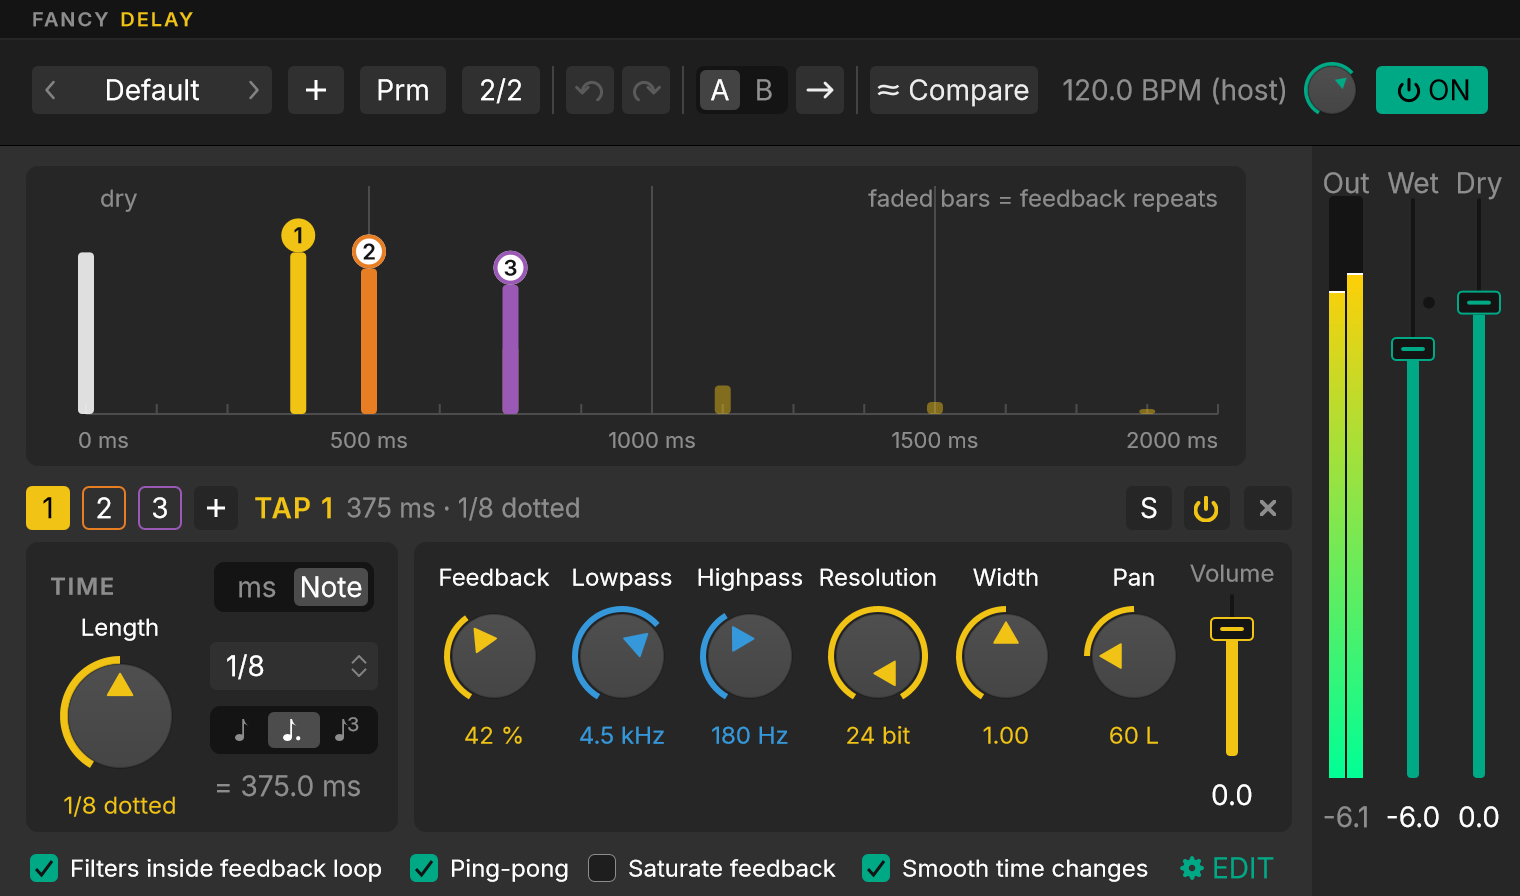
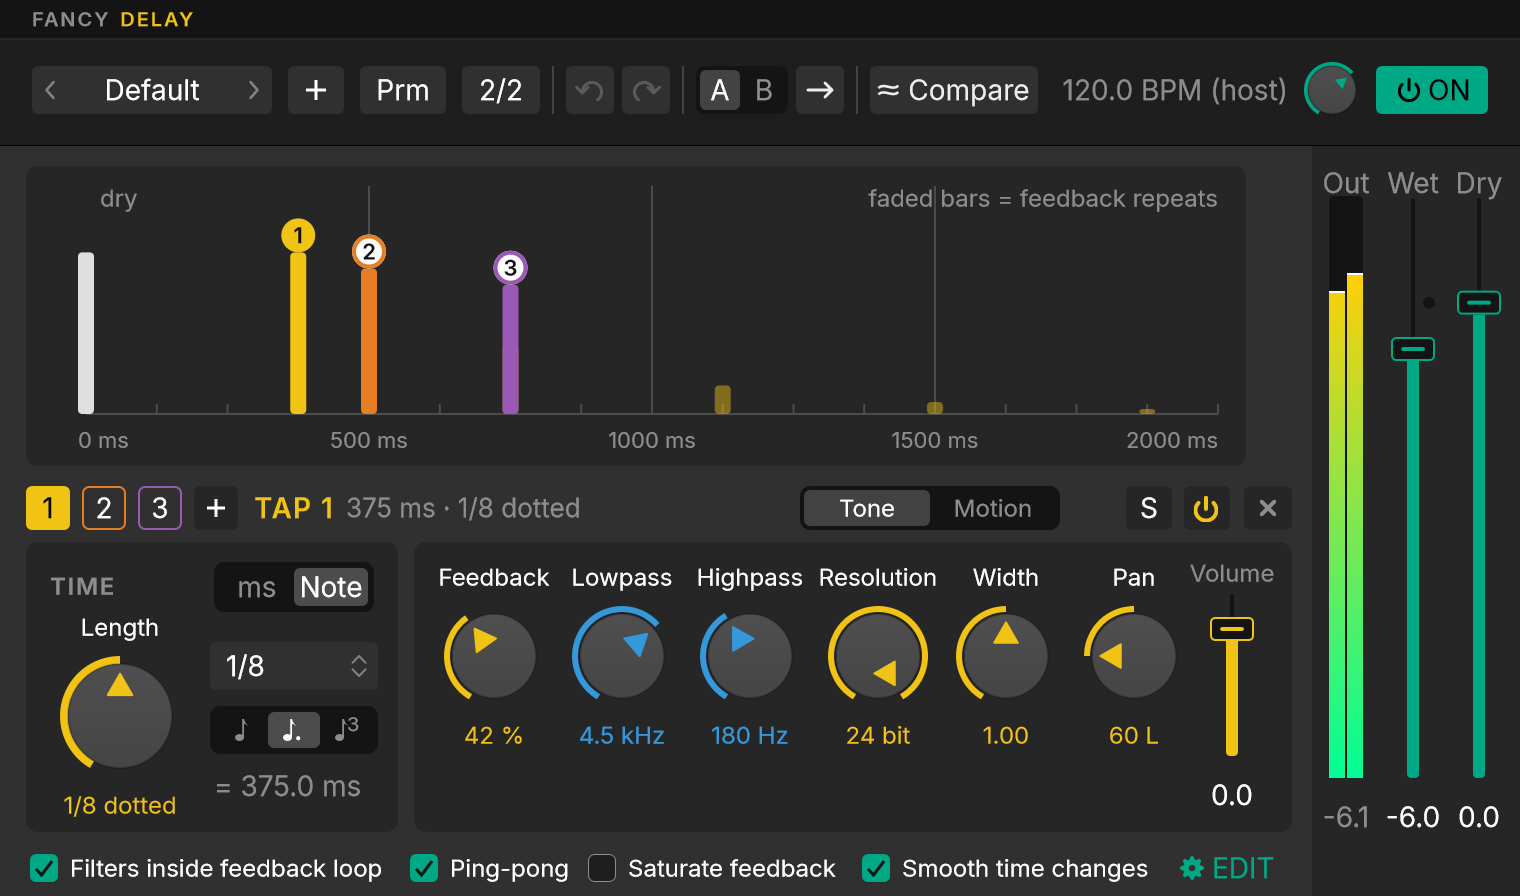
Release 1.5.0: version, README notes and screenshots

Changed region(s): [[0.5257, 0.5312, 0.7112, 0.5938]]

diff --git a/README.md b/README.md
@@ -1,6 +1,6 @@
 # Fancy Plugs
 
-Fourteen VST3 effects for Windows 10 and 11 (x64), built for personal use and signed off by ear in REAPER. Version **1.4.0**.
+Fourteen VST3 effects for Windows 10 and 11 (x64), built for personal use and signed off by ear in REAPER. Version **1.5.0**.
 
 | Plugin | What it does |
 |---|---|
@@ -8,9 +8,9 @@ Fourteen VST3 effects for Windows 10 and 11 (x64), built for personal use and si
 | Fancy Exciter | Parallel high-frequency exciter with clip boost and a mix-back control |
 | Fancy Comp | Compressor with a Threshold fader over the input meter, a filtered detector, a sidechain and an output limiter; new in 1.4.0, Character, upward compression, Auto threshold and a detector EQ |
 | Fancy EQ | Up to 24 bands with draggable handles, a live analyzer, dynamic bands and, new in 1.4.0, mid/side per band and Match |
-| Fancy Verb | Convolution reverb built from a chain of modules: impulse file, filters, echo generator, normalize |
-| Fancy Delay | Up to 16 delay taps, each with its own feedback, loop filters, bit crush, width, pan and ping-pong |
-| Fancy MultiComp | Up to 8 bands of compression behind flat-summing crossovers and, new in 1.2.0, upward compression |
+| Fancy Verb | Convolution reverb built from a chain of modules: impulse file, filters, echo generator, normalize; new in 1.5.0, a built-in IR library, true stereo and Modulate |
+| Fancy Delay | Up to 16 delay taps, each with its own feedback, loop filters, bit crush, width, pan and ping-pong; new in 1.5.0, Tape and BBD character, modulation, diffusion, ducking and swing |
+| Fancy MultiComp | Up to 8 bands of compression behind flat-summing crossovers, with upward compression and, new in 1.5.0, lookahead and mid/side per band |
 | Fancy FIR | Spectral processor: drawable EQ, Gate, Compressor, noise Subtract and Convolve, with adaptive noise tracking in 1.2.0 |
 | Fancy Gate | Gate with a filtered detector, a sidechain and a MIDI trigger output |
 | Fancy Limit | New in 1.3.0: true-peak brickwall limiter with lookahead, three styles, Auto release, a loudness meter and dither |
@@ -19,7 +19,19 @@ Fourteen VST3 effects for Windows 10 and 11 (x64), built for personal use and si
 | Fancy Sature | New in 1.3.0: saturator with Tape, Tube, Transistor and Clip curves, even/odd Character, Tone, oversampling and auto gain |
 | Fancy Room | New in 1.3.0: algorithmic reverb from small room to long hall, with Freeze, tempo-synced pre-delay, a send mode and ducking |
 
-## What's new in 1.4.0
+## What's new in 1.5.0
+
+- **Fancy Verb: IR library.** 32 impulse responses built in, in Rooms, Halls, Plates, Chambers and Special, from a LIBRARY section in the File module's dropdown. A project that uses one stays small, because it stores the name, not the audio.
+- **Fancy Verb: true stereo.** Library IRs marked TS, four-channel WAVs and a pair of stereo files (**Pair right input…**) keep each input side's own reflections, so a source panned left still fills the room. The Reverb generator gains Low and High RT, Early reflections (Room or Hall, with Size; Plate is dense from the start), Build-up and a True stereo switch.
+- **Fancy Verb: Modulate.** A new module that moves a long tail gently, without pitch wobble, with Rate and Depth. Offline renders stay identical.
+- **Fancy Verb: Add module** is now a card in the chain with every module type.
+- **Fancy MultiComp: lookahead** from 0 to 10 ms, reported to the host, and **a channel per band:** Stereo, Left, Right, Mid or Side, from a chip on the band row.
+- **Fancy Delay: character and motion.** Each tap can be Clean, Tape or BBD, with Amount, and the Motion page adds Rate, Depth, Random and Diffusion. The EDIT drawer adds Ducking and Swing.
+- **New presets:** Library Hall, Library Plate, True Stereo Room, Modulated Hall and Endless (Verb); Lookahead Glue and Mid/Side Master (MultiComp); Tape Echo, BBD Chorus Echo, Diffused Wash and Ducked Vocal Echo (Delay).
+
+Projects saved with 1.0 to 1.4 load and sound exactly as before. Every new setting defaults to the old behaviour.
+
+## What was new in 1.4.0
 
 - **Fancy EQ: 24 bands and a channel per band.** Up to 24 bands, and each one can work on Stereo, Left, Right, Mid or Side, from a small chip under its type. The white curve shows the total for the selected band's channel, Linear phase follows the channels in use, and the analyzer can show any one channel.
 - **Fancy EQ: Match.** Learn a reference and your material, from the sidechain or captured one after the other, and Match writes ordinary bands into free slots to move your track towards the reference, as one undo step. Amount, Smoothing, the number of bands and a frequency range set how far it goes.
@@ -76,15 +88,27 @@ The Match card over a learned reference (purple), the current material (grey) an
 
 <img src="docs/images/verb.png" width="866" alt="Fancy Verb">
 
+A true-stereo hall from the built-in library:
+
+<img src="docs/images/verb-library.png" width="866" alt="Fancy Verb with a library IR in true stereo">
+
 ### Fancy Delay
 
 <img src="docs/images/delay.png" width="760" alt="Fancy Delay">
+
+The Motion page, with a Tape tap:
+
+<img src="docs/images/delay-motion.png" width="760" alt="Fancy Delay's Motion page">
 
 ### Fancy MultiComp
 
 Shown with the Upward row for the selected band and the global Depth and Time knobs.
 
 <img src="docs/images/multicomp.png" width="760" alt="Fancy MultiComp with upward compression">
+
+Band 2 set to Mid (the M chip and the M on its handle):
+
+<img src="docs/images/multicomp-channel.png" width="760" alt="Fancy MultiComp with a mid-only band">
 
 ### Fancy FIR
 
